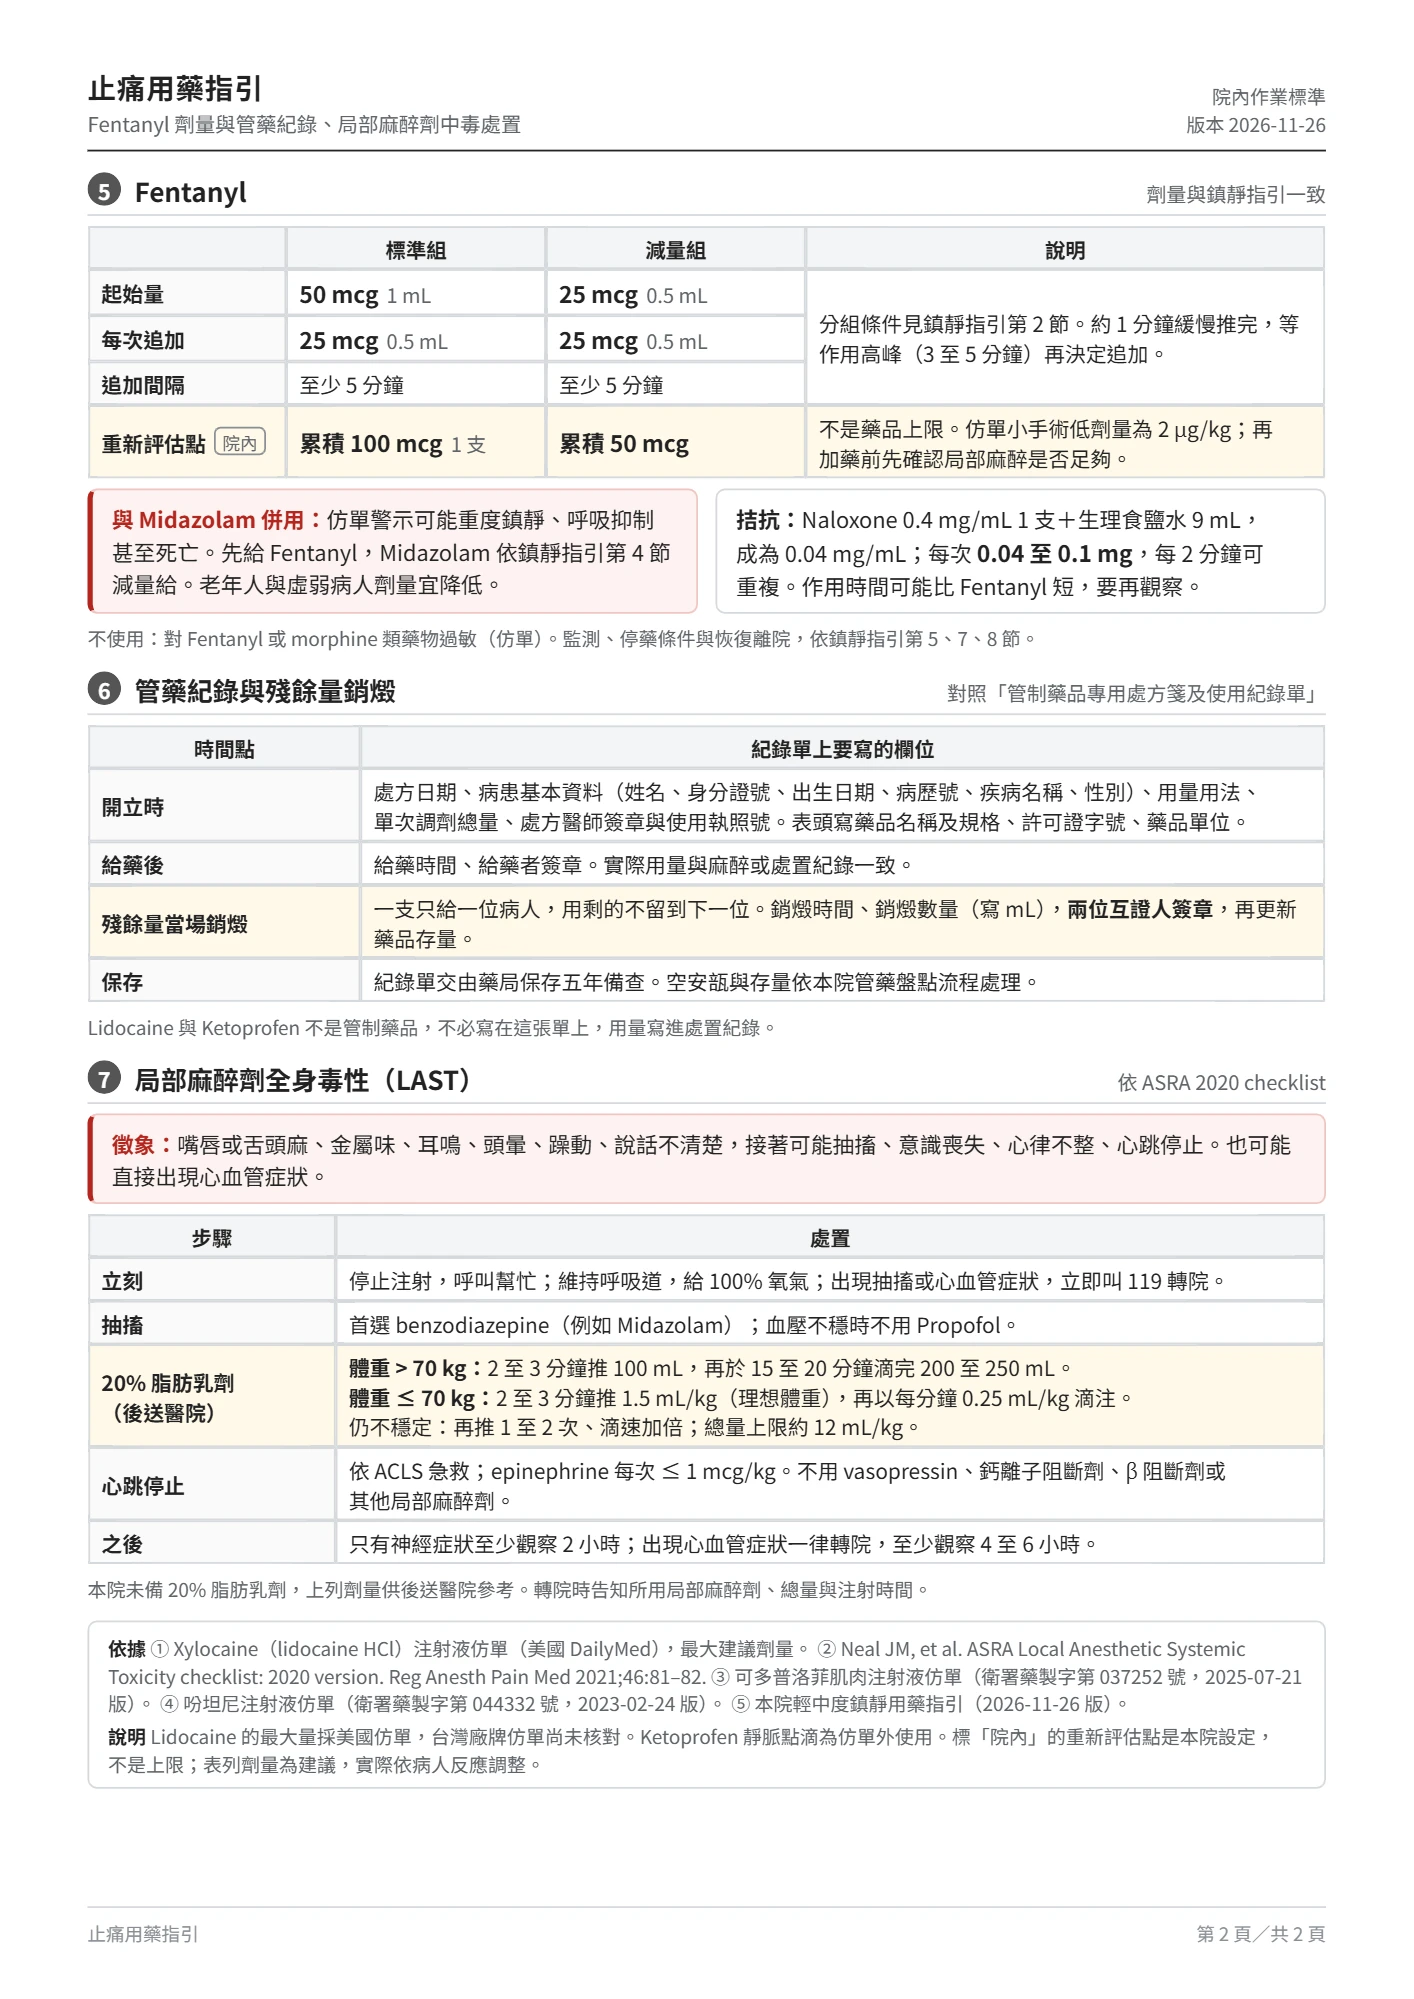
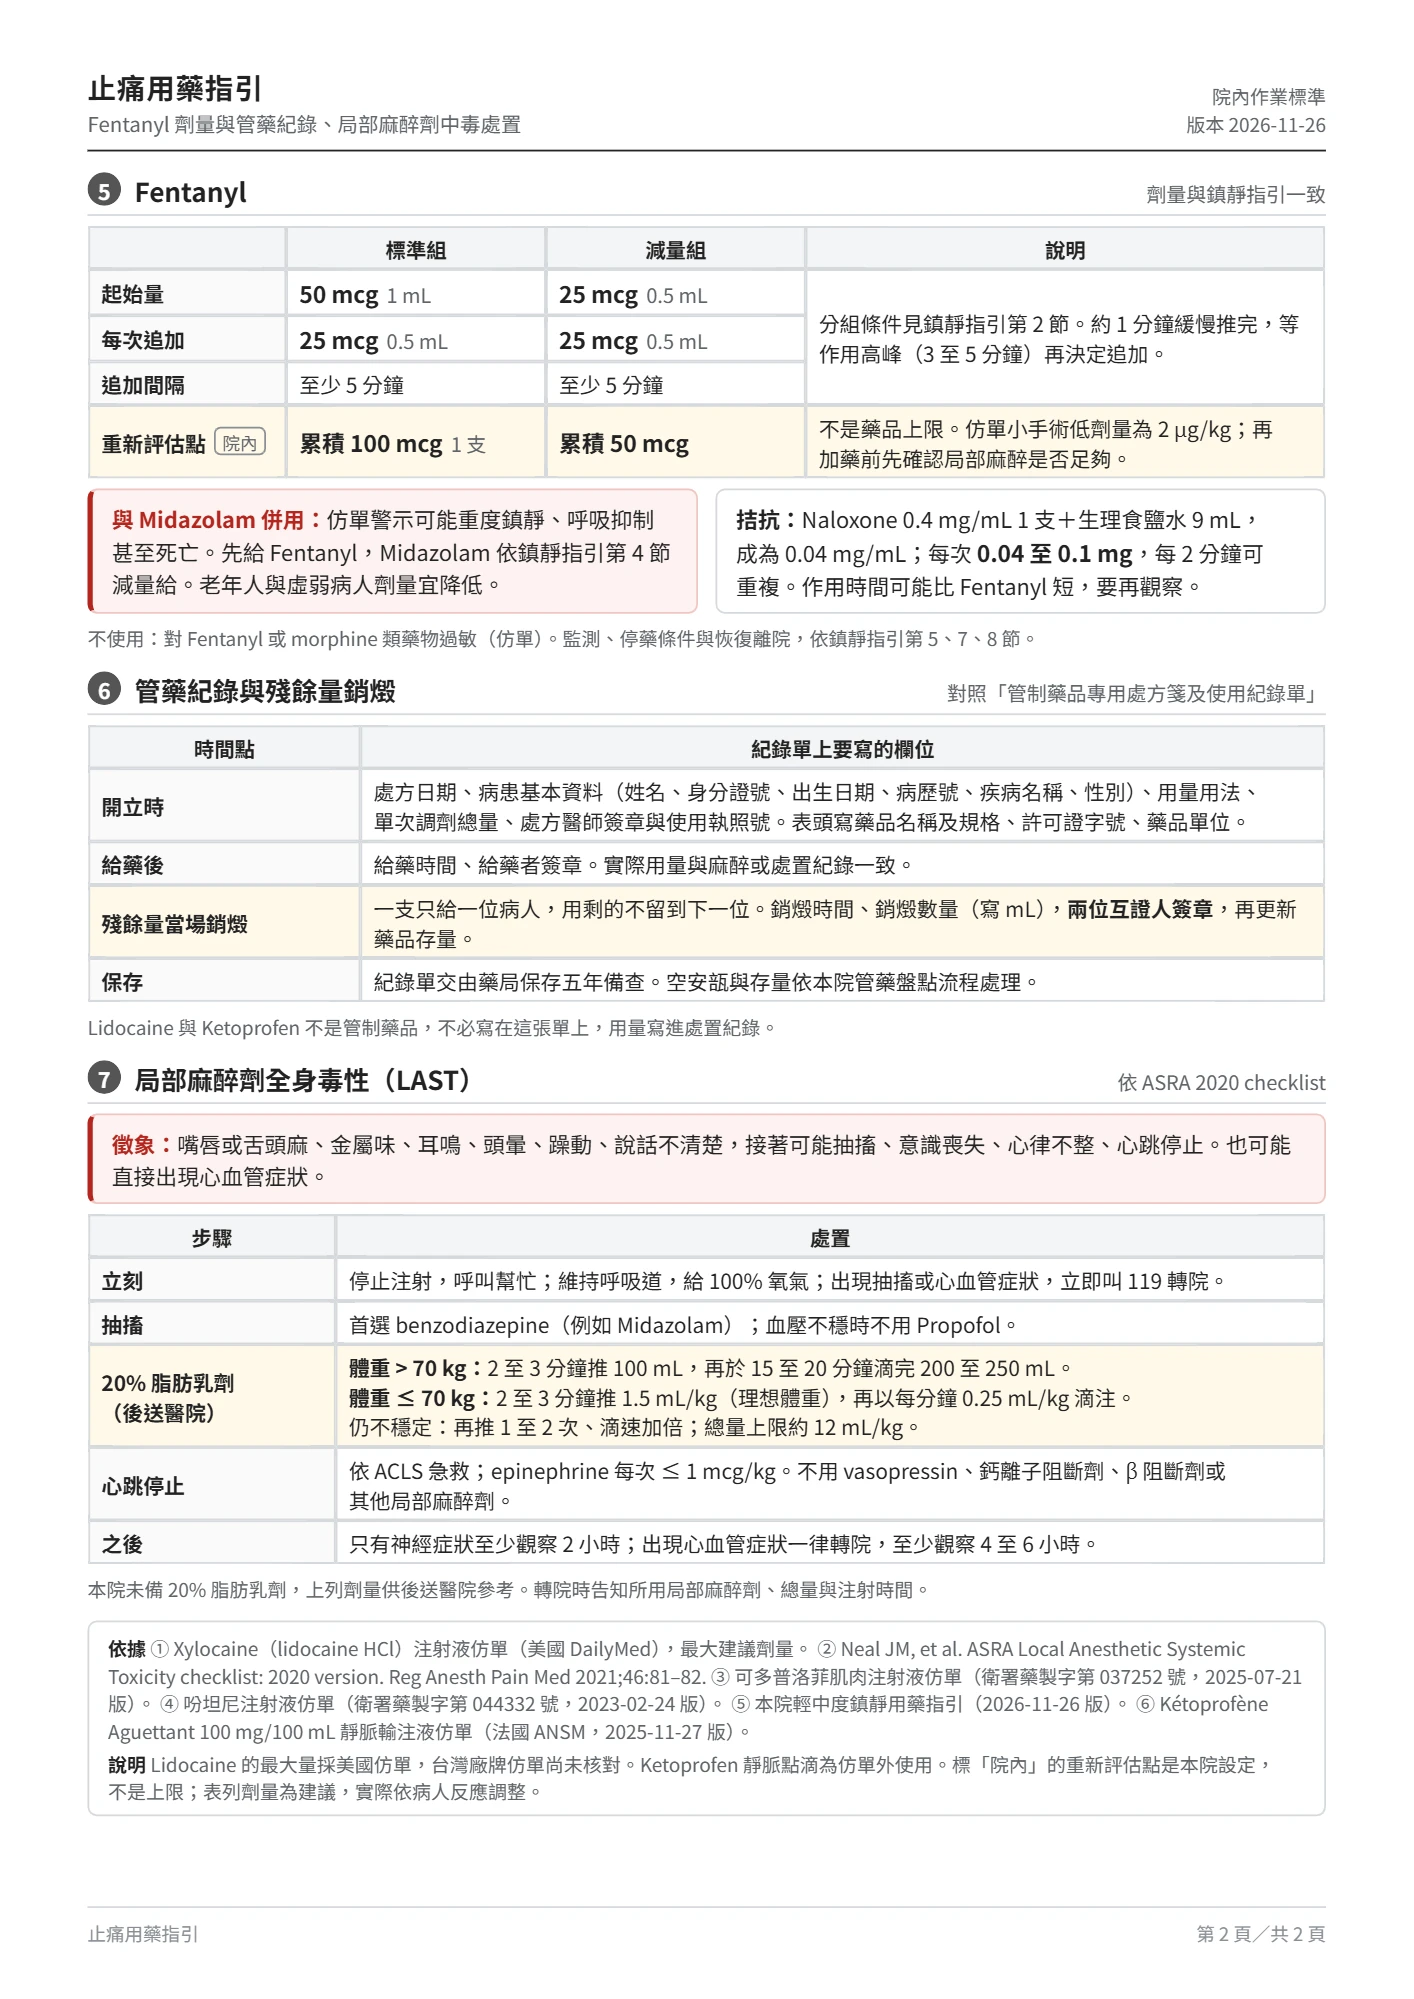
止痛指引：Lidocaine 緩衝液註明不可靜脈注射；Ketoprofen 點滴補稀釋液、不混袋、每日合計上限與減量對象
依據加上法國 Kétoprofène Aguettant 靜脈製劑仿單（ANSM 2025-11-27 版）。

Changed region(s): [[0.0622, 0.8374, 0.9024, 0.8994]]

diff --git a/guide-src/analgesia-guide.html b/guide-src/analgesia-guide.html
@@ -96,7 +96,7 @@ ul.dots{padding-left:4.4mm;} ul.dots li{margin:.3mm 0;}
       <tr><th>Lidocaine<br>緩衝液</th><td>2% Lidocaine（20 mg/mL）<br>7% NaHCO₃</td>
         <td><span class="nw">2% Lidocaine 9 mL</span>＋<span class="nw">7% NaHCO₃ 1 mL</span>，<span class="nw">共 10 mL</span>，<span class="k">現配現用</span></td>
         <td class="c nw">1 mL = 18 mg</td>
-        <td>局部浸潤注射</td></tr>
+        <td>局部浸潤注射，<span class="k nw">不可靜脈注射</span></td></tr>
       <tr><th>Ketoprofen</th><td>可多普洛菲<br><span class="nw">25 mg/mL，每支 2 mL</span></td>
         <td>肌肉注射不稀釋；<span class="nw">點滴加入 100 mL</span></td>
         <td class="c nw">1 mL = 25 mg</td>
@@ -140,7 +140,7 @@ ul.dots{padding-left:4.4mm;} ul.dots li{margin:.3mm 0;}
     <div class="box">
       <h3>注射時</h3>
       <ul class="dots">
-        <li>每次推藥前先回抽，沒有回血才推；分次、緩慢注射。</li>
+        <li>每次推藥前先回抽，沒有回血才推，回抽有血就換位置；分次、緩慢注射。</li>
         <li>用量隨手累計，寫進處置紀錄。</li>
         <li>老年、虛弱、肝功能不良、心臟衰竭的病人<span class="k">減量</span>。</li>
         <li>注射中與注射後留意第 7 節的中毒徵象。</li>
@@ -159,10 +159,14 @@ ul.dots{padding-left:4.4mm;} ul.dots li{margin:.3mm 0;}
         <td>每次 <span class="dose">50 至 100 mg</span><span class="ml">2 至 4 mL</span>，一日 1 至 2 次</td>
         <td>仿單</td></tr>
       <tr class="key"><th>靜脈點滴</th>
-        <td>單次與每日總量不超過肌肉注射的仿單用量（<span class="nw">每日 200 mg</span>）。加入 <span class="nw">100 mL</span> 點滴，<span class="nw">滴注 30 分鐘</span>。</td>
-        <td>仿單外使用，<span class="nw">院內做法</span>；病歷寫明給法與劑量</td></tr>
+        <td>每次不超過 <span class="nw">100 mg</span>，加入 <span class="nw">100 mL</span> 生理食鹽水或 <span class="nw">5% 葡萄糖</span>，<span class="nw">滴注 30 分鐘</span>；<span class="nw">不與其他藥品混在同一袋。</span></td>
+        <td>仿單外使用；滴注時間參考法國靜脈製劑仿單<span class="nw">（約 20 分鐘）</span>；病歷寫明給法與劑量</td></tr>
     </tbody>
   </table>
+  <ul class="dots">
+    <li>肌肉注射與點滴同一天合計，<span class="k">每日不超過 200 mg</span>。</li>
+    <li>高齡與腎功能不良者起始劑量減量；腸道準備後脫水的病人先補足水分。</li>
+  </ul>
   <div class="grid2">
     <div class="box warn">
       <span class="warn-t">不使用：</span>活動性消化性潰瘍或消化道出血；仿單禁忌：血液異常、肝障害、腎障害、心機能不全；曾因 Aspirin 誘發氣喘；冠狀動脈繞道手術後 14 天內；懷孕 30 週以上。
@@ -249,7 +253,8 @@ ul.dots{padding-left:4.4mm;} ul.dots li{margin:.3mm 0;}
       ② Neal JM, et al. ASRA Local Anesthetic Systemic Toxicity checklist: 2020 version. Reg Anesth Pain Med 2021;46:81–82.
       ③ 可多普洛菲肌肉注射液仿單（衛署藥製字第 037252 號，2025-07-21 版）。
       ④ 吩坦尼注射液仿單（衛署藥製字第 044332 號，2023-02-24 版）。
-      ⑤ 本院輕中度鎮靜用藥指引（2026-11-26 版）。</p>
+      ⑤ 本院輕中度鎮靜用藥指引（2026-11-26 版）。
+      ⑥ Kétoprofène Aguettant 100 mg/100 mL 靜脈輸注液仿單（法國 ANSM，2025-11-27 版）。</p>
     <p class="note" style="margin-top:.8mm"><span class="k" style="color:var(--ink)">說明</span>
       Lidocaine 的最大量採美國仿單，台灣廠牌仿單尚未核對。Ketoprofen 靜脈點滴為仿單外使用。標「院內」的重新評估點是本院設定，不是上限；表列劑量為建議，實際依病人反應調整。</p>
   </div>

diff --git a/sw.js b/sw.js
@@ -9,7 +9,7 @@
    工作台開啟後會把所有衛教與表單圖片預先存下，斷網時也能顯示與列印。
    網路很慢（伺服器 3 秒內沒回應，圖片 6 秒）時先用快取開啟，背景照樣把新版存下，下次開啟就是新版；
    以前會一直等到連線逾時，網路卡住時整個工作台白畫面。 */
-const CACHE = 'tools-v131';
+const CACHE = 'tools-v132';
 const CORE = [
   './', 'index.html',
   'mount.js', 'revision.js',
